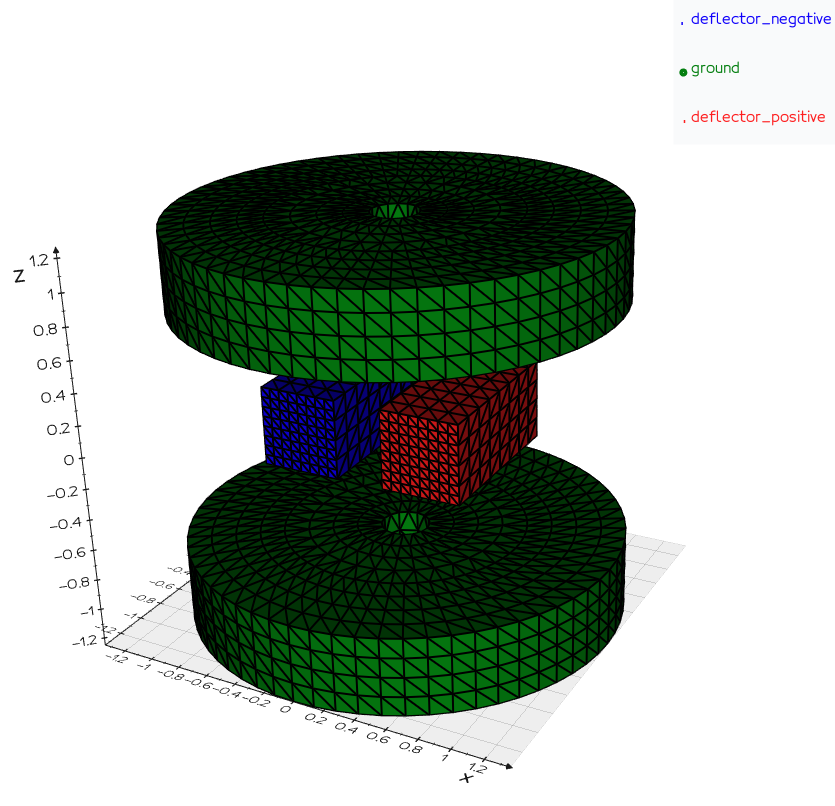
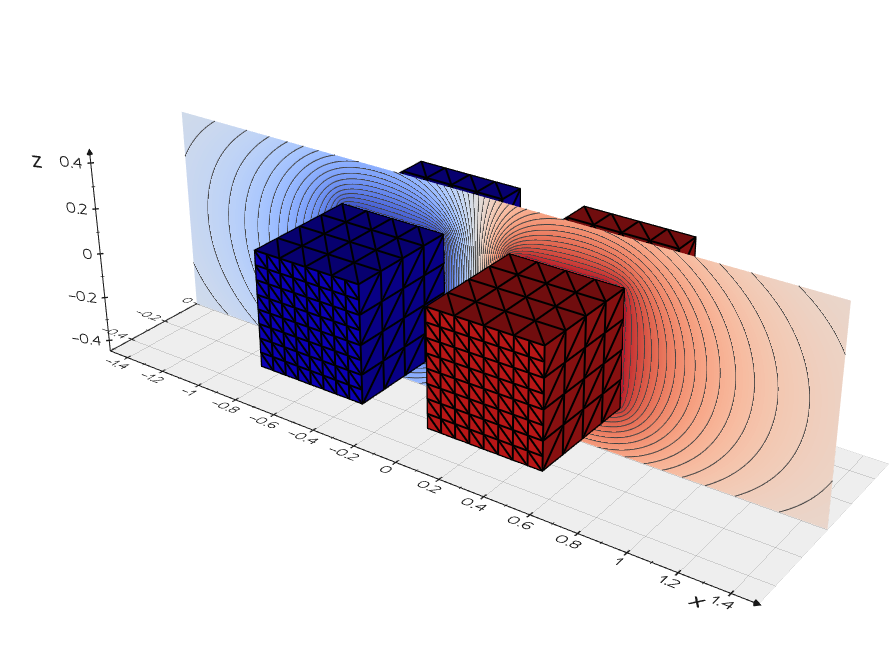
Improve plotting in examples/deflector-3d.py

diff --git a/examples/deflector-3d.py b/examples/deflector-3d.py
@@ -95,6 +95,13 @@ plt.ylabel('z (mm)')
 plt.show()
 
 
+#surface = G.Path.circle_xy(0.0, 0.0, RADIUS/2).move(dz=-0.5).extrude([0, 0, 1.0])
+surface = G.Surface.rectangle_xz(-10*RADIUS, 10*RADIUS, -3*RADIUS, 3*RADIUS)
+
+P.new_figure()
+P.plot_mesh(defl_mesh, deflector_positive='red', deflector_negative='blue')
+P.plot_equipotential_lines(field, surface, N0=100, N1=150)
+P.show()
 
 
 
